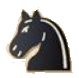
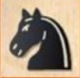
Add Knight

diff --git a/Chess/Knight.cs b/Chess/Knight.cs
@@ -1,0 +1,98 @@
+using Chess.Interfaces;
+using System;
+using System.Collections.Generic;
+using System.Linq;
+using System.Text;
+using System.Threading.Tasks;
+
+namespace Chess
+{
+    public class Knight : Figure
+    {
+
+        private List<Point> _possiblePositions = new List<Point>();
+
+        public Knight(bool isWhite, Point point) : base(isWhite, point)
+        {
+           
+        }
+
+        public override IEnumerable<Point> GetAvailablePositions(IEnumerable<Figure> figures)
+        {
+            var Positions = new List<Point>();
+            bool IsFigureExist;
+
+           _possiblePositions = GetPossiblePositions();
+
+
+            foreach (var PossiblePosition in _possiblePositions)
+            {
+                IsFigureExist = figures.Any(f => f.Position == new Point(PossiblePosition.X, PossiblePosition.Y));
+
+                if (IsFigureExist)
+                {
+                    var figure = figures.First(f => f.Position == new Point(PossiblePosition.X, PossiblePosition.Y));
+                    if (this.isWhite != figure.isWhite)
+                    {
+                        Positions.Add(figure.Position);
+                    }
+                }
+                else
+                {
+                    if ((PossiblePosition.X >= 0 && PossiblePosition.X < 8) &&
+                        (PossiblePosition.Y >= 0 && PossiblePosition.Y < 8))
+                    {
+                        Positions.Add(new Point(PossiblePosition.X, PossiblePosition.Y));
+                    }
+                }
+            }
+
+            _possiblePositions.Clear();
+
+            return Positions;
+        }
+
+        public override Image GetImage()
+        {
+            if (isWhite)
+            {
+                if (isChoosen)
+                {
+                    return Properties.Resources.Knight_White_Green;
+                }
+                else
+                {
+                    return (Position.X + Position.Y) % 2 == 0 ? Properties.Resources.Knight_White_White : Properties.Resources.Knight_White_Black;
+                }
+
+            }
+            else
+            {
+                if (isChoosen)
+                {
+                    return Properties.Resources.Knight_Black_Green;
+                }
+                else
+                {
+                    return (Position.X + Position.Y) % 2 == 0 ? Properties.Resources.Knight_Black_White : Properties.Resources.Knight_Black_Black;
+                }
+            }
+
+        }
+
+
+        private List<Point> GetPossiblePositions()
+        {
+            _possiblePositions.Add(new Point(this.Position.X - 1, this.Position.Y - 2));
+            _possiblePositions.Add(new Point(this.Position.X + 1, this.Position.Y - 2));
+            _possiblePositions.Add(new Point(this.Position.X - 1, this.Position.Y + 2));
+            _possiblePositions.Add(new Point(this.Position.X + 1, this.Position.Y + 2));
+            _possiblePositions.Add(new Point(this.Position.X - 2, this.Position.Y - 1));
+            _possiblePositions.Add(new Point(this.Position.X - 2, this.Position.Y + 1));
+            _possiblePositions.Add(new Point(this.Position.X + 2, this.Position.Y - 1));
+            _possiblePositions.Add(new Point(this.Position.X + 2, this.Position.Y + 1));
+            return _possiblePositions;   
+        }
+
+    }
+}

diff --git a/Chess/Properties/Resources.Designer.cs b/Chess/Properties/Resources.Designer.cs
@@ -313,6 +313,36 @@ namespace Chess.Properties {
         /// <summary>
         ///   Looks up a localized resource of type System.Drawing.Bitmap.
         /// </summary>
+        internal static System.Drawing.Bitmap Knight_White_Black {
+            get {
+                object obj = ResourceManager.GetObject("Knight_White_Black", resourceCulture);
+                return ((System.Drawing.Bitmap)(obj));
+            }
+        }
+        
+        /// <summary>
+        ///   Looks up a localized resource of type System.Drawing.Bitmap.
+        /// </summary>
+        internal static System.Drawing.Bitmap Knight_White_Green {
+            get {
+                object obj = ResourceManager.GetObject("Knight_White_Green", resourceCulture);
+                return ((System.Drawing.Bitmap)(obj));
+            }
+        }
+        
+        /// <summary>
+        ///   Looks up a localized resource of type System.Drawing.Bitmap.
+        /// </summary>
+        internal static System.Drawing.Bitmap Knight_White_White {
+            get {
+                object obj = ResourceManager.GetObject("Knight_White_White", resourceCulture);
+                return ((System.Drawing.Bitmap)(obj));
+            }
+        }
+        
+        /// <summary>
+        ///   Looks up a localized resource of type System.Drawing.Bitmap.
+        /// </summary>
         internal static System.Drawing.Bitmap Pawn_Black_Black {
             get {
                 object obj = ResourceManager.GetObject("Pawn_Black_Black", resourceCulture);

diff --git a/Chess/Form1.cs b/Chess/Form1.cs
@@ -47,7 +47,7 @@ public partial class Form1 : Form
         }
     }
 
-    private void SetImageToAvaliablePositions(bool isFillCells)
+    private void SetImageToAvailablePositions(bool isFillCells)
     {
         foreach (var position in _figureMover.AvaliablePositions)
         {
@@ -112,7 +112,7 @@ public partial class Form1 : Form
         {
             _figureMover.ChooseFigure(figure);
             button.Image = figure.GetImage();
-            SetImageToAvaliablePositions(true);
+            SetImageToAvailablePositions(true);
         }
         else if (_figureMover._currentfigure != null)
         {
@@ -120,17 +120,8 @@ public partial class Form1 : Form
             ClearCurrentCell(_figureMover._currentfigure.Position);
             _figureMover.Move(point);
             SetFigures();
-            SetImageToAvaliablePositions(false);
+            SetImageToAvailablePositions(false);
             SetTurnIcon();
         }
     }
-
-    private void button1_Click(object sender, EventArgs e)
-    {
-    }
-
-    private void button1_Click_1(object sender, EventArgs e)
-    {
-    }
-
 }

diff --git a/Chess/Initializer.cs b/Chess/Initializer.cs
@@ -56,7 +56,7 @@ internal static class Initializer
                         return new Rook(y is 7, new Point(x, y));
                     case 1:
                     case 6:
-                        break;
+                        return new Knight(y is 7, new Point(x, y));
                     case 2:
                     case 5:
                         return new Bishop(y is 7, new Point(x, y));                        

diff --git a/Chess/FigureMover.cs b/Chess/FigureMover.cs
@@ -30,7 +30,7 @@ namespace Chess
         {
             if (figure.isWhite == _isWhiteTurn)
             {
-                AvaliablePositions = figure.GetAvaliablePositions(Figures);
+                AvaliablePositions = figure.GetAvailablePositions(Figures);
                 figure.isChoosen = true;
                 _currentfigure = figure;
             }

diff --git a/Chess/King.cs b/Chess/King.cs
@@ -15,7 +15,7 @@ namespace Chess
 
         public bool IsFirstTurn { get; set; } = true;
 
-        public override IEnumerable<Point> GetAvaliablePositions(IEnumerable<Figure> figures)
+        public override IEnumerable<Point> GetAvailablePositions(IEnumerable<Figure> figures)
         {
             throw new NotImplementedException();
         }

diff --git a/Chess/Pawn.cs b/Chess/Pawn.cs
@@ -19,7 +19,7 @@ namespace Chess
 
         public bool IsFirstTurn { get; set; } = true;
 
-        public override IEnumerable<Point> GetAvaliablePositions(IEnumerable<Figure> figures)
+        public override IEnumerable<Point> GetAvailablePositions(IEnumerable<Figure> figures)
         {
            
             var positions = new List<Point>();

diff --git a/Chess/Castle.cs b/Chess/Castle.cs
@@ -15,7 +15,7 @@ namespace Chess
 
         }
 
-        public override IEnumerable<Point> GetAvaliablePositions(IEnumerable<Figure> figures)
+        public override IEnumerable<Point> GetAvailablePositions(IEnumerable<Figure> figures)
         {
             var positions = new List<Point>();
             int step = 1;

diff --git a/Chess/Rook.cs b/Chess/Rook.cs
@@ -11,7 +11,7 @@ public class Rook : Figure, IMarkable, IMoveByDirection
     {
     }
 
-    public override IEnumerable<Point> GetAvaliablePositions(IEnumerable<Figure> figures)
+    public override IEnumerable<Point> GetAvailablePositions(IEnumerable<Figure> figures)
     {
         var positions = new List<Point>();
 

diff --git a/Chess/Bishop.cs b/Chess/Bishop.cs
@@ -14,7 +14,7 @@ namespace Chess
 
         }
 
-        public override IEnumerable<Point> GetAvaliablePositions(IEnumerable<Figure> figures)
+        public override IEnumerable<Point> GetAvailablePositions(IEnumerable<Figure> figures)
         {
             var positions = new List<Point>();
 

diff --git a/Chess/Queen.cs b/Chess/Queen.cs
@@ -14,7 +14,7 @@ namespace Chess
 
         }
 
-        public override IEnumerable<Point> GetAvaliablePositions(IEnumerable<Figure> figures)
+        public override IEnumerable<Point> GetAvailablePositions(IEnumerable<Figure> figures)
         {
             var positions = new List<Point>();
 

diff --git a/Chess/Figure.cs b/Chess/Figure.cs
@@ -27,7 +27,7 @@ namespace Chess
 
         
 
-        public abstract IEnumerable<Point> GetAvaliablePositions(IEnumerable<Figure> figures);
+        public abstract IEnumerable<Point> GetAvailablePositions(IEnumerable<Figure> figures);
 
         public abstract Image GetImage();
 
